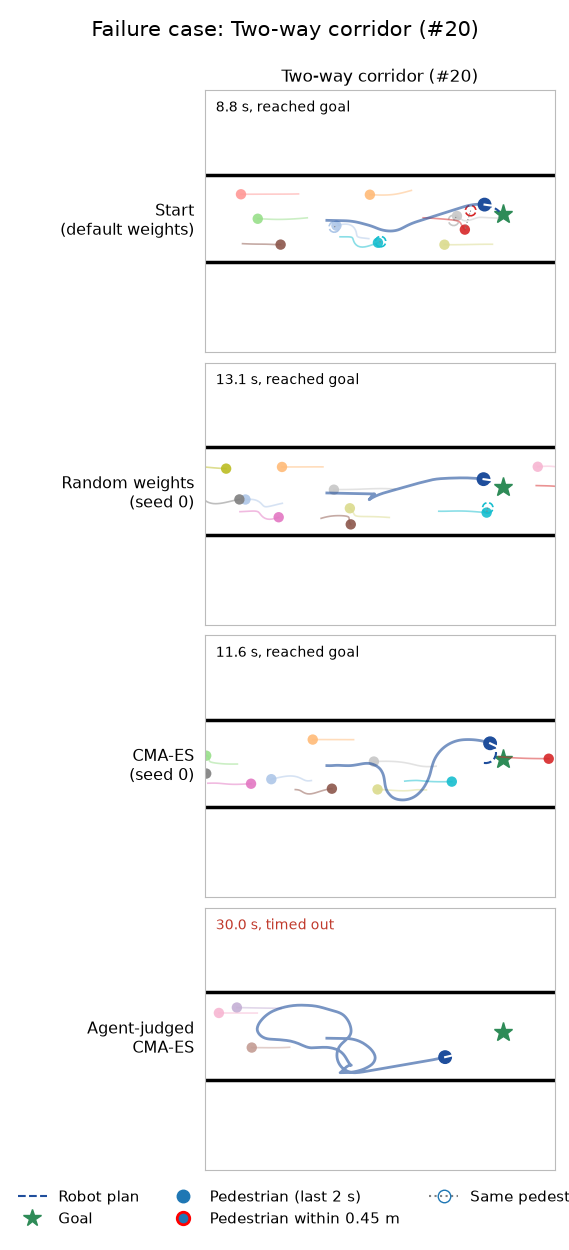
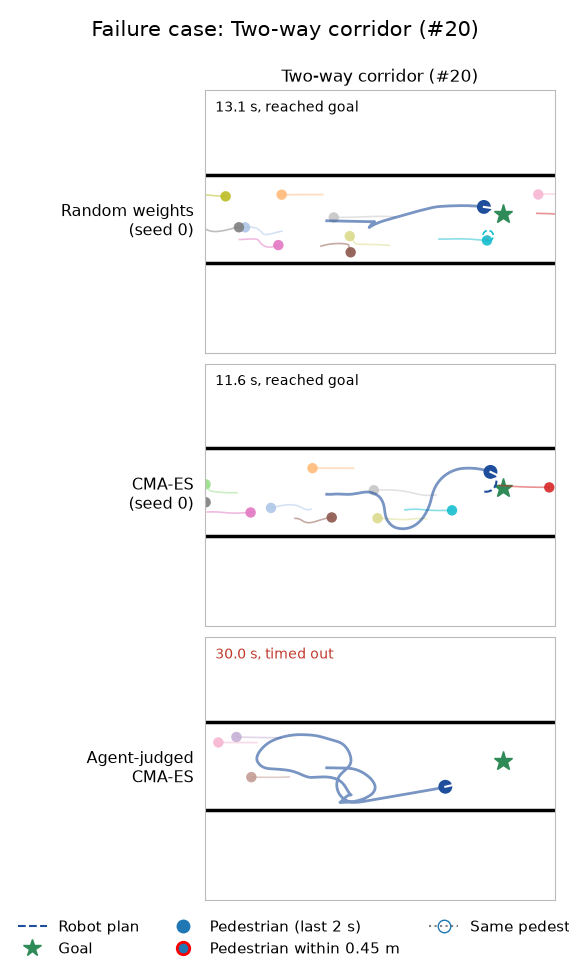
Agent judge figures: no default-weights row in the failure cases; no seed remarks on the bar plot
Claude-Session: https://claude.ai/code/session_012oeNvwPSTEAtdJdafyEtUh

diff --git a/docs/results/agent_judge/scripts/plot_comparison.py b/docs/results/agent_judge/scripts/plot_comparison.py
@@ -10,8 +10,8 @@ import numpy as np
 
 D = "docs/results/agent_judge/"
 r = json.load(open(D + "cost_comparison.json"))
-rows = [("Random weights\n(10 seeds)", [r[f"random s{i}"] for i in range(10)]),
-        ("CMA-ES\n(10 seeds)", [r[f"seed study s{i}"] for i in range(10)]),
+rows = [("Random\nweights", [r[f"random s{i}"] for i in range(10)]),
+        ("CMA-ES\n(hand-crafted reward)", [r[f"seed study s{i}"] for i in range(10)]),
         ("Agent-judged\nCMA-ES", [r["A: agent-judged"]])]
 metrics = [("S", "Success rate (%) - higher is better", 100, (0, 108)),
            ("intimate_violation_rate", "Time within 0.45 m of a person (%) - lower is better", 100, (0, None)),
@@ -27,8 +27,7 @@ for ax, (key, title, scale, ylim) in zip(axes, metrics):
     ax.set_xticks(range(len(rows)), [n for n, _ in rows], fontsize=9)
     ax.set_title(title, fontsize=10.5), ax.grid(axis="y", alpha=0.3)
     ax.set_ylim(ylim[0], ylim[1] if ylim[1] else ax.get_ylim()[1] * 1.15)
-fig.suptitle("Held-out test, 210 scenes (CPU setting)\nRandom weights and CMA-ES: average over 10 seeds "
-             "(CMA-ES trained on the hand-crafted reward). Agent-judged CMA-ES: one run", fontsize=11)
+fig.suptitle("Held-out test, 210 scenes (CPU setting)", fontsize=11)
 fig.tight_layout()
 fig.savefig(D + "comparison.png", dpi=130)
 print("saved", D + "comparison.png")

diff --git a/docs/results/agent_judge/scripts/failure_cases.py b/docs/results/agent_judge/scripts/failure_cases.py
@@ -51,8 +51,7 @@ def main(count: int = 6) -> None:
     kinds = search.kinds("test_kinds") + ["overtaking"]
     scenes = scenario_set("test", kinds, 30, dt=search.j["dt"], duration=search.j["duration"])
     batch = collate(scenes, device)
-    shown = {"Start\n(default weights)": dict(base),
-             "Random weights\n(seed 0)": {**base, **random_weights(policy.parameters, names, 0)},
+    shown = {"Random weights\n(seed 0)": {**base, **random_weights(policy.parameters, names, 0)},
              "CMA-ES\n(seed 0)": {**base, **load_policy_file(SEEDS.format(0))[1]},
              JUDGED: {**base, **load_policy_file(D / "judged_cmaes_policy.yaml")[1]}}
     judged, reward = outcomes(env, policy, batch, shown[JUDGED], device)

diff --git a/docs/results/agent_judge/README.md b/docs/results/agent_judge/README.md
@@ -38,8 +38,9 @@ seed), scored here as they are. Mean ± standard deviation over seeds (`cost_com
 
 The held-out scenes where the agent-judged policy fails (19 of 210, all timeouts), worst reward first,
 at most two per kind: two-way corridors #20 and #5, narrow passage #7, standing groups #2 and #4.
-`failure_cases.gif` shows the start weights, random weights (seed 0), CMA-ES (seed 0) and the
-agent-judged policy on them; there is also one GIF per scene. Everyone else gets through, and the
+`failure_cases.gif` shows random weights (seed 0), CMA-ES (seed 0) and the agent-judged policy on
+them (the agent-judged run started from the default weights); there is also one GIF per scene. The
+others get through, and the
 agent-judged policy loops or freezes in front of passable people. The corridor and narrow-passage
 cases are hard in general: only 6-7 of the 10 CMA-ES seeds and 7-8 of the 10 random weight sets reach
 the goal there (`scenes.json`). Likely causes: two scenes per generation rarely show the cost of
